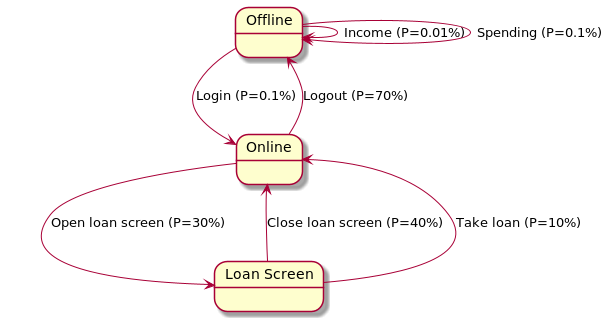
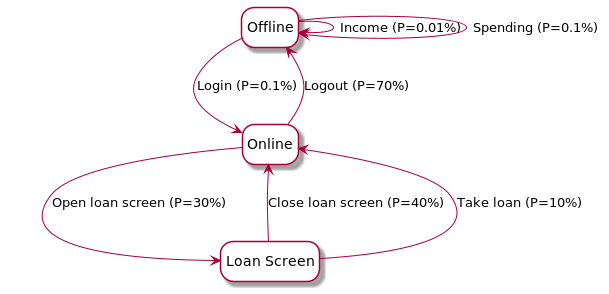
Bump version to 1.0.0. Add license. Update diagram style.

diff --git a/setup.py b/setup.py
@@ -6,7 +6,7 @@ from setuptools import find_packages
 from setuptools.command.install import install
 
 
-__version__ = "0.2.0"
+__version__ = "1.0.0"
 
 with open("README.md", "r") as fh:
     long_description = fh.read()
@@ -40,7 +40,7 @@ setup(
     author_email="office@getindata.com",
     description="Data Online Generator",
     long_description=long_description,
-    url="https://gitlab.com/getindata/streaming-labs/doge",
+    url="https://github.com/getindata/doge-datagen",
     packages=find_packages(),
     python_requires='>=3.8',
     classifiers=[
